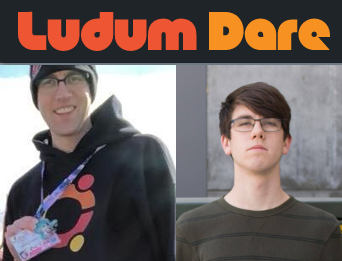
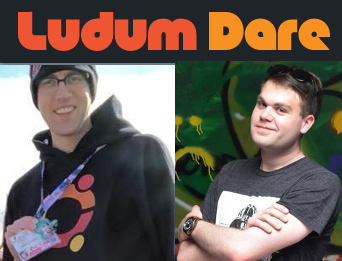
chang pic to show david

diff --git a/index.html b/index.html
@@ -29,8 +29,8 @@
                     </a>
                     <div class="caption">
                         <h4>Ludum Dare 42</h4>
-                        <p>Our Ludum Dare 42 Jam entry. Made by Chris and Michael.</p>
-                        <p>Status: Pending (Game Jam happens Aug 10-12 2018!).</p>
+                        <p>Our Ludum Dare 42 Jam entry. Made by Chris and David.</p>
+                        <p>Status: Playable, losable, but not winnable</p>
                     </div>
                 </div>
 
